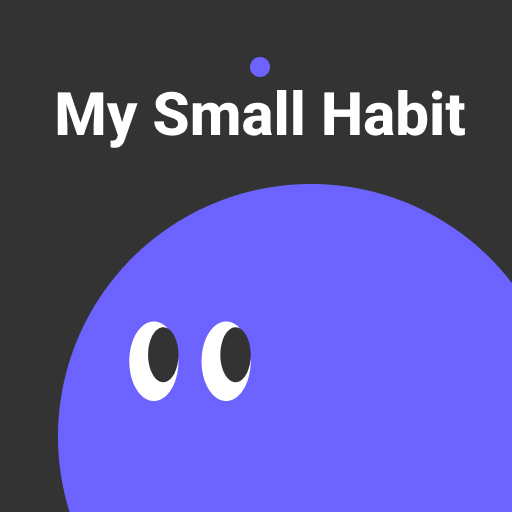
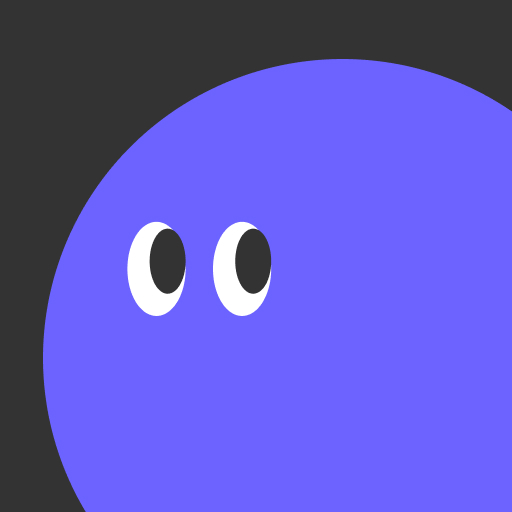
Feat: 모바일 환경 고려 코드 수정, 누락된 리팩토링 및 기능 작업 (#13)
* Fix: 모바일 환경 확대 방지

* Feat: 모바일 환경 스플래쉬 추가 및 icon 수정

* Feat: 로그아웃 버튼 추가

* Refactor: 누락된 코드스플리팅 2차 및 버튼 등 멘트 개선

* Design: ios 대응 스타일 추가

Changed region(s): [[0.0625, 0.0938, 1.0, 1.0]]

diff --git a/features/signUp/components/signForm.tsx b/features/signUp/components/signForm.tsx
@@ -1,18 +1,28 @@
+"use client";
+
 import { Button } from "@/components/button";
 import BaseInput from "@/components/input/baseInput";
 import ErrorMsg from "@/components/text/errorMsg";
-import { UserInfo } from "@/types/user";
+import useAuth from "@/hooks/useAuth";
 
-interface LoginFormProps {
-  userInfo: UserInfo;
-  errorMsg: string;
-  handleUserLogin: (e: React.FormEvent<HTMLFormElement>) => void;
-  handleChange: (e: React.ChangeEvent<HTMLInputElement>) => void;
-}
+const SignForm = () => {
+  const { handleUserSignUp, errorMsg, userInfo, setUserInfo } = useAuth();
 
-const LoginForm = ({ userInfo, errorMsg, handleUserLogin, handleChange }: LoginFormProps) => {
+  const handleChange = (e: React.ChangeEvent<HTMLInputElement>) => {
+    const { name, value } = e.target;
+    setUserInfo({ ...userInfo, [name]: value });
+  };
+
   return (
-    <form onSubmit={handleUserLogin} className="flex w-full flex-col gap-4">
+    <form onSubmit={handleUserSignUp} className="flex w-full flex-col gap-4">
+      <BaseInput
+        label="이름"
+        placeholder="이름을 입력해주세요."
+        name="name"
+        value={userInfo.name}
+        onChange={handleChange}
+        isRequired
+      />
       <BaseInput
         label="이메일"
         placeholder="이메일을 입력해주세요."
@@ -30,13 +40,15 @@ const LoginForm = ({ userInfo, errorMsg, handleUserLogin, handleChange }: LoginF
         value={userInfo.password}
         onChange={handleChange}
         isRequired
+        minLength={8}
+        maxLength={16}
       />
       {errorMsg && <ErrorMsg errorMsg={errorMsg} />}
       <Button variant="secondary" size="medium" type="submit">
-        로그인
+        회원가입
       </Button>
     </form>
   );
 };
 
-export default LoginForm;
+export default SignForm;

diff --git a/features/login/components/loginForm.tsx b/features/login/components/loginForm.tsx
@@ -1,26 +1,20 @@
+"use client";
+
 import { Button } from "@/components/button";
 import BaseInput from "@/components/input/baseInput";
 import ErrorMsg from "@/components/text/errorMsg";
-import { UserInfo } from "@/types/user";
+import useAuth from "@/hooks/useAuth";
 
-interface SignFormProps {
-  userInfo: UserInfo;
-  errorMsg: string;
-  handleUserSignUp: (e: React.FormEvent<HTMLFormElement>) => void;
-  handleChange: (e: React.ChangeEvent<HTMLInputElement>) => void;
-}
+const LoginForm = () => {
+  const { handleUserLogin, errorMsg, userInfo, setUserInfo } = useAuth();
 
-const SignForm = ({ userInfo, errorMsg, handleUserSignUp, handleChange }: SignFormProps) => {
+  const handleChange = (e: React.ChangeEvent<HTMLInputElement>) => {
+    const { name, value } = e.target;
+    setUserInfo({ ...userInfo, [name]: value });
+  };
+
   return (
-    <form onSubmit={handleUserSignUp} className="flex w-full flex-col gap-4">
-      <BaseInput
-        label="이름"
-        placeholder="이름을 입력해주세요."
-        name="name"
-        value={userInfo.name}
-        onChange={handleChange}
-        isRequired
-      />
+    <form onSubmit={handleUserLogin} className="flex w-full flex-col gap-4">
       <BaseInput
         label="이메일"
         placeholder="이메일을 입력해주세요."
@@ -38,15 +32,13 @@ const SignForm = ({ userInfo, errorMsg, handleUserSignUp, handleChange }: SignFo
         value={userInfo.password}
         onChange={handleChange}
         isRequired
-        minLength={8}
-        maxLength={16}
       />
       {errorMsg && <ErrorMsg errorMsg={errorMsg} />}
       <Button variant="secondary" size="medium" type="submit">
-        회원가입
+        로그인
       </Button>
     </form>
   );
 };
 
-export default SignForm;
+export default LoginForm;

diff --git a/features/login/index.tsx b/features/login/index.tsx
@@ -1,44 +1,28 @@
-"use client";
-
 import ButttonContain from "@/components/button/butttonContain";
 import ScreenContainer from "@/components/container/screenContainer";
 import ActionLinkMsg from "@/components/text/actionLinkMsg";
 import CircleTitle from "@/components/title/circleTitle";
 import Title from "@/components/title/title";
 import { routes } from "@/constants/path";
-import useAuth from "@/hooks/useAuth";
 
-import LoginForm from "./loginForm";
-import SocialLogin from "./socialLogin";
+import LoginForm from "./components/loginForm";
+import SocialLogin from "./components/socialLogin";
 
 const LoginScreen = () => {
-  const { handleUserLogin, handleUserAuthLogin, errorMsg, userInfo, setUserInfo } = useAuth();
-
-  const handleChange = (e: React.ChangeEvent<HTMLInputElement>) => {
-    const { name, value } = e.target;
-    setUserInfo({ ...userInfo, [name]: value });
-  };
-
   return (
     <ScreenContainer>
       <CircleTitle>
         <Title size="text-xl">로그인하고 습관을 기록하세요!</Title>
       </CircleTitle>
 
-      <LoginForm
-        handleUserLogin={handleUserLogin}
-        userInfo={userInfo}
-        handleChange={handleChange}
-        errorMsg={errorMsg}
-      />
-
-      <SocialLogin handleUserAuthLogin={handleUserAuthLogin} />
+      <LoginForm />
+      <SocialLogin />
 
       <ButttonContain isFixed isColumn>
         <ActionLinkMsg
           href={routes.commonPath.signup}
           msg="계정이 없으신가요?"
-          linkMsg="회원가입 하러가기"
+          linkMsg="이메일 회원가입 하러가기"
         />
       </ButttonContain>
     </ScreenContainer>

diff --git a/features/signUp/index.tsx b/features/signUp/index.tsx
@@ -1,35 +1,20 @@
-"use client";
-
 import ButttonContain from "@/components/button/butttonContain";
 import ScreenContainer from "@/components/container/screenContainer";
 import ActionLinkMsg from "@/components/text/actionLinkMsg";
 import CircleTitle from "@/components/title/circleTitle";
 import Title from "@/components/title/title";
 import { routes } from "@/constants/path";
-import useAuth from "@/hooks/useAuth";
 
-import SignForm from "./signForm";
+import SignForm from "./components/signForm";
 
 const SignUpScreen = () => {
-  const { handleUserSignUp, errorMsg, userInfo, setUserInfo } = useAuth();
-
-  const handleChange = (e: React.ChangeEvent<HTMLInputElement>) => {
-    const { name, value } = e.target;
-    setUserInfo({ ...userInfo, [name]: value });
-  };
-
   return (
     <ScreenContainer>
       <CircleTitle>
         <Title size="text-xl">정보를 입력해주세요!</Title>
       </CircleTitle>
 
-      <SignForm
-        handleUserSignUp={handleUserSignUp}
-        userInfo={userInfo}
-        handleChange={handleChange}
-        errorMsg={errorMsg}
-      />
+      <SignForm />
 
       <ButttonContain isFixed isColumn>
         <ActionLinkMsg

diff --git a/features/login/components/socialLogin.tsx b/features/login/components/socialLogin.tsx
@@ -1,13 +1,12 @@
-import { Provider } from "@supabase/supabase-js";
+"use client";
 
 import { IconGoogle } from "@/assets/icons";
 import { Button } from "@/components/button";
+import useAuth from "@/hooks/useAuth";
 
-interface SocialLoginProps {
-  handleUserAuthLogin: (provider: Provider) => void;
-}
+const SocialLogin = () => {
+  const { handleUserAuthLogin } = useAuth();
 
-const SocialLogin = ({ handleUserAuthLogin }: SocialLoginProps) => {
   return (
     <div className="mt-7 flex w-full flex-col gap-3">
       <div className="flex items-center justify-center gap-2 text-center">
@@ -16,7 +15,7 @@ const SocialLogin = ({ handleUserAuthLogin }: SocialLoginProps) => {
 
       <Button variant="white" size="medium" isIcon onClick={() => handleUserAuthLogin("google")}>
         <IconGoogle className="h-5 w-5" />
-        Google 로그인
+        Google 간편 로그인
       </Button>
     </div>
   );

diff --git a/features/habitRecord/recordStep1.tsx b/features/habitRecord/recordStep1.tsx
@@ -46,7 +46,7 @@ const RecordStep1 = ({
   };
 
   return (
-    <ScreenContainer>
+    <ScreenContainer isBottomButton>
       <CircleTitle>
         <Title color="text-gray-900" size="text-xl">
           오늘 어떤 습관을 하셨나요?
@@ -64,9 +64,9 @@ const RecordStep1 = ({
       </section>
 
       <BottomButtonSection
-        prevText="나중에"
-        nextText="다음"
-        prevOnClick={() => handlePageMove({ path: routes.userPath.mypage.root })}
+        prevText="나중에 기록"
+        nextText="다음으로"
+        prevOnClick={() => handlePageMove({ path: routes.userPath.mypage.root, type: "replace" })}
         nextOnClickk={handleGotoStep2}
       />
     </ScreenContainer>

diff --git a/api/auth.ts b/api/auth.ts
@@ -1,7 +1,9 @@
 import { Provider } from "@supabase/supabase-js";
+import { redirect } from "next/navigation";
 
 import { routes } from "@/constants/path";
 import { createClient } from "@/lib/supabase/client";
+import { toast } from "@/utils/toast";
 
 /**
  * 회원가입
@@ -62,6 +64,17 @@ export const handleAuthLogin = async (provider: Provider) => {
   });
 
   return { data, error };
+};
+
+/**
+ * 로그아웃
+ * @returns error
+ */
+export const handleLogout = async () => {
+  const { error } = await createClient().auth.signOut();
+  if (error) return toast("예기치 못한 에러가 발생했습니다!");
+
+  return redirect("/");
 };
 
 export const getSupabase = async () => {

diff --git a/features/reportDay/index.tsx b/features/reportDay/index.tsx
@@ -9,9 +9,9 @@ import FullScreenLoading from "@/components/loading/fullScreenLoading";
 import MarkDownViewer from "@/components/mdx/markDownViewer";
 import { useGetReportDay } from "@/hooks/api/report";
 
-import ButtonSection from "./buttonSection";
-import AIGenerateReportSection from "./generateReportSection";
-import TopContentSection from "./topContentSection";
+import ButtonSection from "./components/buttonSection";
+import AIGenerateReportSection from "./components/generateReportSection";
+import TopContentSection from "./components/topContentSection";
 
 const ReportDayScreen = ({ userName }: { userName: string }) => {
   const params = useParams();

diff --git a/app/layout.tsx b/app/layout.tsx
@@ -16,6 +16,21 @@ export const metadata: Metadata = {
   title: "My Small Habit - 나의 작은 습관",
   description: "습관을 주기적으로, 완벽하게 지키지 않아도, 하루에 하나만 해도 괜찮아요",
   manifest: "/manifest.json",
+  viewport: {
+    width: "device-width",
+    initialScale: 1.0,
+    userScalable: false,
+  },
+  appleWebApp: {
+    capable: true,
+    statusBarStyle: "black-translucent",
+    title: "My Small Habit",
+    startupImage: [
+      {
+        url: "/image/splashscreen.png",
+      },
+    ],
+  },
 };
 
 export default async function RootLayout({

diff --git a/features/setting/index.tsx b/features/setting/index.tsx
@@ -1,5 +1,6 @@
 import ScreenContainer from "@/components/container/screenContainer";
 
+import LogoutButton from "./components/logoutButton";
 import SettingSection from "./components/settingSection";
 import ThemeSection from "./components/themeSection";
 
@@ -15,6 +16,7 @@ const SettingScreen = () => {
           <br />
           이뤘다면 이미 잘하고 있어요 :)
         </p>
+        <LogoutButton />
       </section>
     </ScreenContainer>
   );

diff --git a/components/container/screenContainer.tsx b/components/container/screenContainer.tsx
@@ -5,7 +5,8 @@ interface ScreenContainerProps {
 
 const ScreenContainer = ({ children, isBottomButton }: ScreenContainerProps) => {
   return (
-    <div className={`flex w-full flex-col items-center ${isBottomButton ? "pb-[100px]" : ""}`}>
+    <div
+      className={`flex w-full flex-col items-center overflow-y-auto ${isBottomButton ? "pb-[100px]" : ""}`}>
       {children}
     </div>
   );

diff --git a/features/habitRecord/recordStep2.tsx b/features/habitRecord/recordStep2.tsx
@@ -56,8 +56,8 @@ const RecordStep2 = ({
       </article>
 
       <BottomButtonSection
-        prevText="나중에"
-        nextText="다음"
+        prevText="이전으로"
+        nextText="기록 완료!"
         prevOnClick={() => handleChangeStep("step1")}
         nextOnClickk={uploadHabitRecord}
       />
